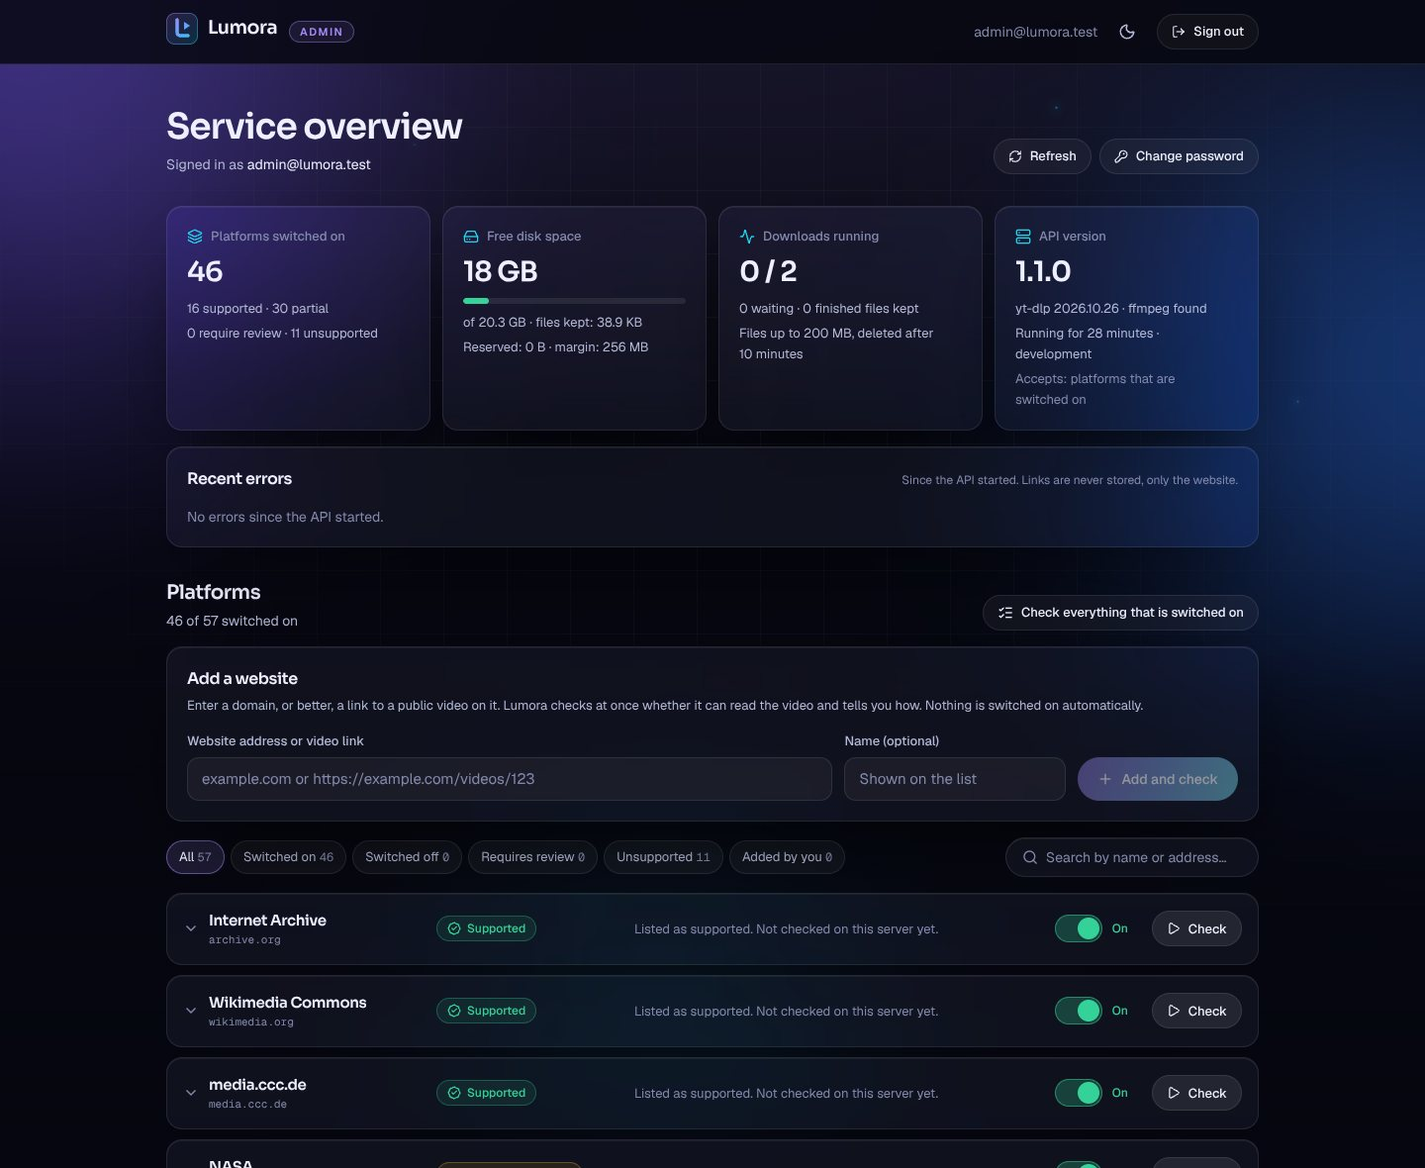
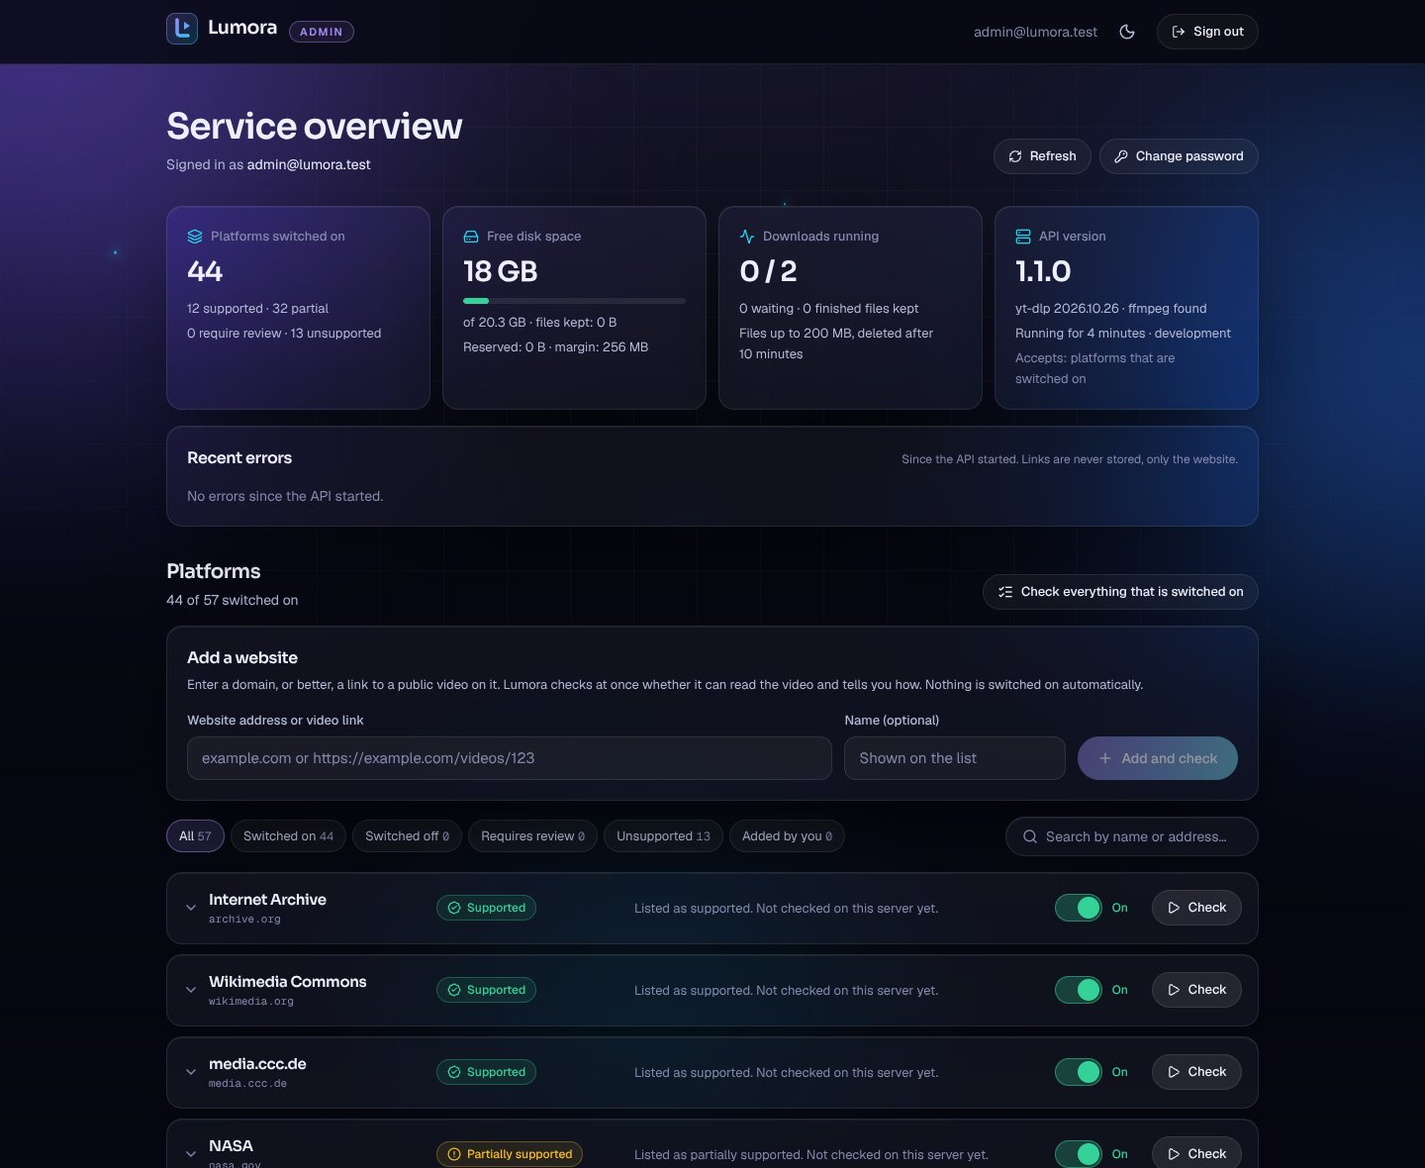
Catalog follows the survey; a site for an API that names no platforms [live-smoke]
Catalog (from the survey on a GitHub-hosted runner, 12 Nov 2026)
- Douyin and Xigua Video are unsupported: their readers need browser
  cookies for every video, and Lumora never uses cookies.
- Rumble, Likee, Naver TV and Kakao TV are "partial" with a note: the run
  was turned away or their sample links could not be read. "Supported" is
  kept for platforms that gave a public video to that run.
- 57 platforms: 44 switched on by default, 13 unsupported.

Checks
- A video that no longer exists says nothing about the platform: such a
  check is recorded, but it is not a finding and changes no status.
- A check without a link reads the link of the previous check first, then
  the integration's sample links.

Website
- An API from before 1.1 that accepts every website names no platforms.
  The site then says so instead of showing an empty list, and no longer
  claims to recognise the platform.

Also: the survey names what it could not test; the live-site check words
the size limit like the site does (1.5 GB); README numbers, the "open"
policy when updating from 1.0, new screenshots.

diff --git a/frontend/src/components/sections/HowItWorks.tsx b/frontend/src/components/sections/HowItWorks.tsx
@@ -4,14 +4,20 @@ import { ArrowDownToLine, ClipboardPaste, ScanSearch, SlidersHorizontal, type Lu
 import { Reveal } from '../ui/Reveal'
 import { SectionHeading } from './SectionHeading'
 
-const STEPS: Array<{ icon: LucideIcon; title: string; text: string }> = [
-  { icon: ClipboardPaste, title: 'Paste URL', text: 'Copy the address of a public video page and paste it into the field.' },
-  { icon: ScanSearch, title: 'Analyze', text: 'Lumora recognises the platform, checks the link and reads the title, preview, duration, qualities and subtitles.' },
-  { icon: SlidersHorizontal, title: 'Choose quality & subtitles', text: 'Pick a resolution and format, and decide which subtitle tracks you want.' },
-  { icon: ArrowDownToLine, title: 'Download', text: 'Watch the file being prepared, then save it. It is deleted from the server afterwards.' },
-]
+const READS = 'the link and reads the title, preview, duration, qualities and subtitles.'
 
-export function HowItWorks() {
+function steps(recognises: boolean): Array<{ icon: LucideIcon; title: string; text: string }> {
+  return [
+    { icon: ClipboardPaste, title: 'Paste URL', text: 'Copy the address of a public video page and paste it into the field.' },
+    { icon: ScanSearch, title: 'Analyze', text: recognises ? `Lumora recognises the platform, checks ${READS}` : `Lumora checks ${READS}` },
+    { icon: SlidersHorizontal, title: 'Choose quality & subtitles', text: 'Pick a resolution and format, and decide which subtitle tracks you want.' },
+    { icon: ArrowDownToLine, title: 'Download', text: 'Watch the file being prepared, then save it. It is deleted from the server afterwards.' },
+  ]
+}
+
+/** `recognises`: the service names its platforms, so a link can be recognised before it is sent. */
+export function HowItWorks({ recognises = true }: { recognises?: boolean }) {
+  const STEPS = steps(recognises)
   return (
     <section id="how-it-works" aria-labelledby="how-title" className="mx-auto max-w-6xl px-4 py-16 sm:px-6 sm:py-24">
       <SectionHeading id="how-title" eyebrow="How it works" title={<>From link to file in <span className="text-gradient font-serif font-normal italic">four steps.</span></>}>

diff --git a/frontend/src/components/sections/Platforms.tsx b/frontend/src/components/sections/Platforms.tsx
@@ -3,7 +3,7 @@ import { BadgeCheck, CircleAlert, CircleSlash, Search, type LucideIcon } from 'l
 import { useMemo, useState } from 'react'
 
 import { cn } from '../../lib/cn'
-import { STATUS_LABEL, featured, type Platform, type PlatformList, type PlatformStatus } from '../../lib/platforms'
+import { STATUS_LABEL, featured, namesPlatforms, type Platform, type PlatformList, type PlatformStatus } from '../../lib/platforms'
 import { Reveal } from '../ui/Reveal'
 import { SectionHeading } from './SectionHeading'
 
@@ -94,12 +94,19 @@ export function Platforms({ list }: { list: PlatformList | null }) {
   return (
     <section aria-labelledby="platforms-title" className="mx-auto max-w-6xl px-4 py-24 sm:px-6 sm:py-28">
       <div id="platforms" className="scroll-mt-24" />
-      <SectionHeading eyebrow="Platforms" id="platforms-title" title="Paste a link. Lumora knows where it’s from.">
-        The platform is recognised from the link itself, including short links and country versions. Each one is listed with
-        what you can honestly expect from it.
-      </SectionHeading>
+      {namesPlatforms(list) ? (
+        <SectionHeading eyebrow="Platforms" id="platforms-title" title="Paste a link. Lumora knows where it’s from.">
+          The platform is recognised from the link itself, including short links and country versions. Each one is listed with
+          what you can honestly expect from it.
+        </SectionHeading>
+      ) : (
+        <SectionHeading eyebrow="Platforms" id="platforms-title" title="Public videos from many websites.">
+          This download service accepts public video pages from a wide range of websites and does not publish a list of them.
+          Paste a link: if it can’t be processed, the message says why.
+        </SectionHeading>
+      )}
 
-      {list === null ? (
+      {!namesPlatforms(list) ? null : list === null ? (
         <Reveal className="mx-auto mt-12 max-w-xl text-center text-sm text-ink-mute">
           The list appears here as soon as the download service is connected.
         </Reveal>

diff --git a/frontend/src/components/hero/Hero.tsx b/frontend/src/components/hero/Hero.tsx
@@ -5,7 +5,7 @@ import type { ReactNode, RefObject } from 'react'
 import type { ServiceState } from '../../hooks/useServiceStatus'
 import { formatSpan } from '../../lib/format'
 import { Link } from '../../lib/Link'
-import { detect, featured, summarise } from '../../lib/platforms'
+import { detect, featured, namesPlatforms, summarise } from '../../lib/platforms'
 import { listSources } from '../../lib/site'
 import { ServicePill } from './ServicePill'
 import { UrlForm } from './UrlForm'
@@ -101,8 +101,9 @@ export function Hero({ service, onRetryService, url, onUrlChange, onSubmit, busy
       </h1>
 
       <m.p {...fade(0.5)} className="mx-auto mt-6 max-w-xl text-[17px] leading-relaxed text-ink-soft sm:text-lg">
-        Paste a link. Lumora recognises the platform, reads what it really offers and prepares a clean download, with
-        subtitles, in the quality you choose.
+        {namesPlatforms(platforms)
+          ? 'Paste a link. Lumora recognises the platform, reads what it really offers and prepares a clean download, with subtitles, in the quality you choose.'
+          : 'Paste a link. Lumora reads what the source really offers and prepares a clean download, with subtitles, in the quality you choose.'}
       </m.p>
 
       <m.div {...fade(0.62)} className="mx-auto mt-9 max-w-3xl">

diff --git a/frontend/src/lib/platforms.test.ts b/frontend/src/lib/platforms.test.ts
@@ -6,6 +6,7 @@ import {
   hostMatches,
   hostOf,
   matchPlatform,
+  namesPlatforms,
   platformsFromDomains,
   refusalFor,
   summarise,
@@ -95,6 +96,16 @@ describe('lists for display', () => {
     expect(list.platforms.map((p) => p.name)).toEqual(['Internet Archive', 'example.org'])
     expect(detect(list, 'https://archive.org/details/x')).toMatchObject({ kind: 'platform' })
     expect(detect(list, 'https://youtube.com/watch')).toEqual({ kind: 'unknown', host: 'youtube.com' })
+    expect(namesPlatforms(list)).toBe(true)
+  })
+
+  it('claims nothing for an older API that accepts every website and names none', () => {
+    const list = platformsFromDomains('open', [])
+    expect(namesPlatforms(list)).toBe(false)
+    expect(namesPlatforms(null)).toBe(true) // not connected yet: the site describes what it normally does
+    expect(detect(list, 'https://youtube.com/watch')).toEqual({ kind: 'none' })
+    expect(refusalFor(list, 'https://youtube.com/watch')).toBeNull()
+    expect(usable(list)).toEqual([])
   })
 })
 

diff --git a/frontend/src/pages/Home.tsx b/frontend/src/pages/Home.tsx
@@ -9,7 +9,7 @@ import { Platforms } from '../components/sections/Platforms'
 import { useDownloader } from '../hooks/useDownloader'
 import type { ServiceState } from '../hooks/useServiceStatus'
 import { ApiError } from '../lib/api'
-import { refusalFor, usable, type PlatformList } from '../lib/platforms'
+import { namesPlatforms, refusalFor, usable, type PlatformList } from '../lib/platforms'
 import { usePageEntry } from '../lib/router'
 import { NAV_LINKS } from '../lib/site'
 
@@ -99,7 +99,7 @@ export default function Home({ service, onRetryService, refreshPlatforms, onActi
       </Hero>
       <Features config={config} />
       <Platforms list={platforms} />
-      <HowItWorks />
+      <HowItWorks recognises={namesPlatforms(platforms)} />
       <Faq config={config} />
     </main>
   )

diff --git a/frontend/src/lib/platforms.ts b/frontend/src/lib/platforms.ts
@@ -110,6 +110,15 @@ export function platformsFromDomains(mode: PlatformList['mode'], domains: readon
   }
 }
 
+/**
+ * False only when the service is connected and names no platform at all: an API from
+ * before the platform list existed that accepts every website. The site then has
+ * nothing to recognise a link by, and must not say that it does.
+ */
+export function namesPlatforms(list: PlatformList | null): boolean {
+  return list === null || list.platforms.length > 0
+}
+
 export const STATUS_LABEL: Record<PlatformStatus, string> = {
   supported: 'Supported',
   partial: 'Partially supported',

diff --git a/backend/app/platforms/catalog.py b/backend/app/platforms/catalog.py
@@ -11,6 +11,10 @@ It is a starting point, not a promise: platforms change, and many of them treat
 servers differently from home connections. The admin panel's compatibility check
 replaces the expectation with what was actually observed.
 
+``full`` is kept for platforms that gave a public video to the project's own
+survey (``scripts/live_smoke.py --survey``, run from a GitHub-hosted runner). A
+platform that turned that run away, or whose reader failed, is ``partial`` at most.
+
 ``domains`` entries match the name itself and its sub-domains. An entry ending in
 ``.*`` (``pinterest.*``) also matches country versions (``pinterest.co.uk``).
 """
@@ -36,6 +40,7 @@ class CatalogEntry:
 
 _LOGIN = "Only public posts. This platform often asks servers to sign in, which Lumora never does."
 _DRM = "Protected with DRM. Lumora never circumvents DRM."
+_COOKIES = "Needs browser cookies for every video, which Lumora never uses."
 
 CATALOG: tuple[CatalogEntry, ...] = (
     # --- sources that publish their videos for download and reuse -------------------
@@ -64,7 +69,7 @@ CATALOG: tuple[CatalogEntry, ...] = (
     CatalogEntry("twitch", "Twitch", ("twitch.tv",), "partial",
                  "Clips and past broadcasts. Live streams and subscriber-only videos are declined."),
     CatalogEntry("kick", "Kick", ("kick.com",), "partial", "Clips and past broadcasts. Live streams are declined."),
-    CatalogEntry("rumble", "Rumble", ("rumble.com",)),
+    CatalogEntry("rumble", "Rumble", ("rumble.com",), "partial", "Public videos. Rumble often turns servers away."),
     CatalogEntry("odysee", "Odysee", ("odysee.com", "lbry.tv")),
     CatalogEntry("bitchute", "BitChute", ("bitchute.com",)),
     CatalogEntry("streamable", "Streamable", ("streamable.com",)),
@@ -78,7 +83,7 @@ CATALOG: tuple[CatalogEntry, ...] = (
     CatalogEntry("flickr", "Flickr", ("flickr.com", "flic.kr"), "partial", "Video posts only."),
     CatalogEntry("9gag", "9GAG", ("9gag.com",), "partial", "Video posts only."),
     CatalogEntry("coub", "Coub", ("coub.com",)),
-    CatalogEntry("likee", "Likee", ("likee.video",)),
+    CatalogEntry("likee", "Likee", ("likee.video",), "partial", "Public videos. Links often cannot be read."),
     # --- Japan --------------------------------------------------------------------------
     CatalogEntry("niconico", "Niconico", ("nicovideo.jp", "nico.ms"), "partial",
                  "Public videos. Many need a Niconico account and are declined.", "japan"),
@@ -90,11 +95,9 @@ CATALOG: tuple[CatalogEntry, ...] = (
     # --- China ------------------------------------------------------------------------------
     CatalogEntry("bilibili", "Bilibili", ("bilibili.com", "b23.tv", "bilibili.tv"), "partial",
                  "Public videos in the qualities offered without an account.", "china"),
-    CatalogEntry("douyin", "Douyin", ("douyin.com",), "partial",
-                 "Public videos. Douyin usually blocks servers outside China.", "china"),
+    CatalogEntry("douyin", "Douyin", ("douyin.com",), "unsupported", _COOKIES, "china"),
     CatalogEntry("weibo", "Weibo", ("weibo.com", "weibo.cn"), "partial", _LOGIN, "china"),
-    CatalogEntry("xigua", "Xigua Video", ("ixigua.com",), "partial",
-                 "Public videos. Usually blocks servers outside China.", "china"),
+    CatalogEntry("xigua", "Xigua Video", ("ixigua.com",), "unsupported", _COOKIES, "china"),
     CatalogEntry("acfun", "AcFun", ("acfun.cn",), region="china"),
     CatalogEntry("youku", "Youku", ("youku.com",), "partial",
                  "Free videos only. Mostly limited to China.", "china"),
@@ -103,8 +106,10 @@ CATALOG: tuple[CatalogEntry, ...] = (
     CatalogEntry("iqiyi", "iQIYI", ("iqiyi.com", "iq.com"), "unsupported",
                  "Requires an account for almost everything and uses DRM.", "china"),
     # --- Korea, Russia ------------------------------------------------------------------------
-    CatalogEntry("naver", "Naver TV", ("tv.naver.com",), region="korea"),
-    CatalogEntry("kakao", "Kakao TV", ("tv.kakao.com",), region="korea"),
+    CatalogEntry("naver", "Naver TV", ("tv.naver.com",), "partial",
+                 "Public clips. Availability depends on the server's country.", "korea"),
+    CatalogEntry("kakao", "Kakao TV", ("tv.kakao.com",), "partial",
+                 "Public clips. Availability depends on the server's country.", "korea"),
     CatalogEntry("vk", "VK Video", ("vk.com", "vkvideo.ru", "vk.ru"), "partial", _LOGIN, "russia"),
     CatalogEntry("ok", "OK.ru", ("ok.ru",), region="russia"),
     CatalogEntry("rutube", "Rutube", ("rutube.ru",), region="russia"),

diff --git a/backend/app/services/compat.py b/backend/app/services/compat.py
@@ -12,9 +12,10 @@ of four states:
   video on a website that is not in the catalog, or the platform turned this
   server away.
 
-A check that had no link to test, or that could not be completed, is recorded as
-not conclusive: the administrator sees why, and the status stays what it was
-going to be without it.
+A check that learned nothing about the website is recorded as not conclusive:
+there was no link to test, the video behind the link no longer exists, or the
+check could not be completed. The administrator sees why, and the status stays
+what it was going to be without it.
 
 Adding or checking a website never switches it on. That is a separate decision.
 """
@@ -109,12 +110,14 @@ def interpret(
     code = max(dict.fromkeys(codes), key=codes.count)
     shown = attempts[codes.index(code)]
     base |= {"url": str(shown.get("url")), "error_code": code, "error_message": _message(code)}
-    if given_url or not result.get("sample_links", True):
+    # "Sample links" only when every link was one: the link of an earlier check may be among them.
+    noun = "sample link" if result.get("sample_links", True) and not result.get("previous_link") else "link"
+    if given_url or (len(attempts) == 1 and noun == "link"):
         tried = "the link"
     elif codes.count(code) == len(attempts):
-        tried = f"{len(attempts)} sample link{'s' if len(attempts) != 1 else ''}"
+        tried = f"{len(attempts)} {noun}{'s' if len(attempts) != 1 else ''}"
     else:
-        tried = f"{codes.count(code)} of {len(attempts)} sample links"
+        tried = f"{codes.count(code)} of {len(attempts)} {noun}s"
     if code == "drm_protected":
         return CheckResult(status="unsupported", summary="The video is DRM-protected. Lumora never circumvents DRM.",
                            **base)
@@ -130,7 +133,8 @@ def interpret(
             "Try another public link. If every link ends like this, the platform doesn't work from this server."
         ), **base)
     if code == "not_found":
-        return CheckResult(status="requires_review", summary=(
+        # A video that is gone says nothing about the platform: nothing was learned.
+        return CheckResult(status="requires_review", conclusive=False, summary=(
             f"The video behind {tried} no longer exists. Paste a link to a current public video."
         ), **base)
     return CheckResult(status="requires_review", summary=(
@@ -196,8 +200,8 @@ class CompatibilityChecker:
         started = time.monotonic()
         self._serial += 1
         directory = self._storage.create("analyses", f"check-{self._serial:06d}-{int(time.time())}")
-        # Without a link the worker tries the integration's sample links. Where there
-        # are none, the link of the previous check is the best thing to test again.
+        # Without a link the worker reads the link of the previous check again, then
+        # the integration's own sample links.
         previous = previous_link(platform) if url is None else None
         try:
             async with self._slots:

diff --git a/backend/tests/test_admin.py b/backend/tests/test_admin.py
@@ -278,16 +278,25 @@ async def test_adding_a_website_checks_it_and_leaves_it_off(make_client: Callabl
     repeated = (await wait_for_check(client, headers, platform["id"]))["check"]
     assert repeated["url"] == f"{source}/watch/webm" and repeated["qualities"] >= 1 and repeated["conclusive"] is True
 
-    # a link that leads nowhere is reported as an error of that check
+    # a link the website refuses to serve: reported as an error of that check, and visitors learn about it
     failing = await client.post(f"/api/v1/admin/platforms/{platform['id']}/check", headers=headers,
-                                json={"url": f"{source}/gone"})
+                                json={"url": f"{source}/forbidden"})
     assert failing.status_code == 202
     failed = (await wait_for_check(client, headers, platform["id"]))["check"]
-    assert failed["error_code"] == "not_found" and failed["error_message"] and failed["status"] == "requires_review"
+    assert failed["error_code"] == "source_forbidden" and failed["error_message"] and failed["conclusive"] is True
+    assert failed["status"] == "requires_review" and "turned this server away" in failed["summary"]
     shown = next(p for p in (await client.get("/api/v1/platforms")).json()["platforms"] if p["id"] == platform["id"])
-    # visitors learn that the last check did not get a video
     assert shown["verified"] is False and shown["checked_at"] == failed["at"]
     assert "last check on this server couldn't read a video" in shown["note"]
+
+    # a link that leads nowhere says nothing about the website: recorded, but it is not a finding
+    missing = await client.post(f"/api/v1/admin/platforms/{platform['id']}/check", headers=headers,
+                                json={"url": f"{source}/gone"})
+    assert missing.status_code == 202
+    gone = (await wait_for_check(client, headers, platform["id"]))["check"]
+    assert gone["error_code"] == "not_found" and gone["conclusive"] is False and "no longer exists" in gone["summary"]
+    shown = next(p for p in (await client.get("/api/v1/platforms")).json()["platforms"] if p["id"] == platform["id"])
+    assert shown["verified"] is False and shown["checked_at"] is None and "Not confirmed" in shown["note"]
 
     assert (await client.delete(f"/api/v1/admin/platforms/{platform['id']}", headers=headers)).status_code == 204
     assert all(p["builtin"] for p in (await client.get("/api/v1/admin/platforms", headers=headers)).json()["platforms"])

diff --git a/backend/app/worker/tasks.py b/backend/app/worker/tasks.py
@@ -692,13 +692,18 @@ def compat(task: dict[str, Any], emit: Emit, log: _Log) -> dict[str, Any]:
     fallback = task.get("fallback_url") if isinstance(task.get("fallback_url"), str) else None
     integrations, samples = find_integrations([str(d) for d in task.get("domains") or []], url)
     attempts: list[dict[str, Any]] = []
-    # A link the administrator gave; else the integration's own sample links; else
-    # the link that an earlier check of this website used.
-    for link in ([url] if url else samples or ([fallback] if fallback else [])):
+    # A link the administrator gave. Without one: the link that the previous check
+    # of this website used (what worked then should work now), then the
+    # integration's own sample links.
+    links = [url] if url else list(dict.fromkeys(([fallback] if fallback else []) + samples))[:MAX_SAMPLE_LINKS]
+    for link in links:
         attempts.append(_try_link(task, link))
         if attempts[-1]["ok"]:
             break
-    return {"integrations": integrations, "attempts": attempts, "sample_links": bool(not url and samples)}
+    return {
+        "integrations": integrations, "attempts": attempts, "sample_links": bool(not url and samples),
+        "previous_link": bool(not url and fallback and fallback not in samples),
+    }
 
 
 TASKS: dict[str, tuple[Callable[[dict[str, Any], Emit, _Log], dict[str, Any]], str]] = {

diff --git a/backend/tests/test_platforms.py b/backend/tests/test_platforms.py
@@ -255,10 +255,15 @@ def test_check_results_are_interpreted() -> None:
     samples = state({"integrations": ["s"], "attempts": [
         _attempt(ok=False, code="not_found"), _attempt(ok=False, code="not_found"),
     ]}, url=None)
-    assert samples.status == "requires_review" and "2 sample links" in samples.summary and samples.conclusive
+    # a video that is gone says nothing about the platform
+    assert samples.status == "requires_review" and "2 sample links" in samples.summary and not samples.conclusive
     again = state({"integrations": [], "sample_links": False, "attempts": [_attempt(ok=False, code="not_found")]},
                   url=None)
     assert "behind the link" in again.summary, "the link of an earlier check is not called a sample link"
+    both = state({"integrations": ["s"], "previous_link": True, "attempts": [
+        _attempt(ok=False, code="login_required"), _attempt(ok=False, code="login_required"),
+    ]}, url=None)
+    assert "for 2 links" in both.summary and both.conclusive, "an earlier link and a sample link are just links"
     # sample links that ended differently: what happened to most of them is reported, and counted honestly
     mixed = state({"integrations": ["s"], "attempts": [
         _attempt(ok=False, code="not_found"),

diff --git a/backend/scripts/live_smoke.py b/backend/scripts/live_smoke.py
@@ -162,7 +162,7 @@ async def survey(client: httpx.AsyncClient) -> list[dict[str, Any]]:
 OUTCOMES = {
     "read": "read a public video",
     "refused": "turned away, or the sample links failed",
-    "untested": "nothing to test with",
+    "untested": "no usable sample link",
     "unsupported": "unsupported",
     "unfinished": "not finished",
 }
@@ -219,7 +219,7 @@ def survey_report(platforms: list[dict[str, Any]], attempts: dict[str, list[str]
     headline = (
         f"{len(groups['read'])} of {len(platforms)} platforms gave a public video to this machine without signing in; "
         f"{len(groups['refused'])} turned it away or their sample links failed, "
-        f"{len(groups['untested'])} had nothing to test with, "
+        f"{len(groups['untested'])} had no sample link or only links to videos that are gone, "
         f"{len(groups['unsupported'])} unsupported, {len(groups['unfinished'])} not finished"
     )
     print(f"\nPlatform survey: {headline}\n{table}")
